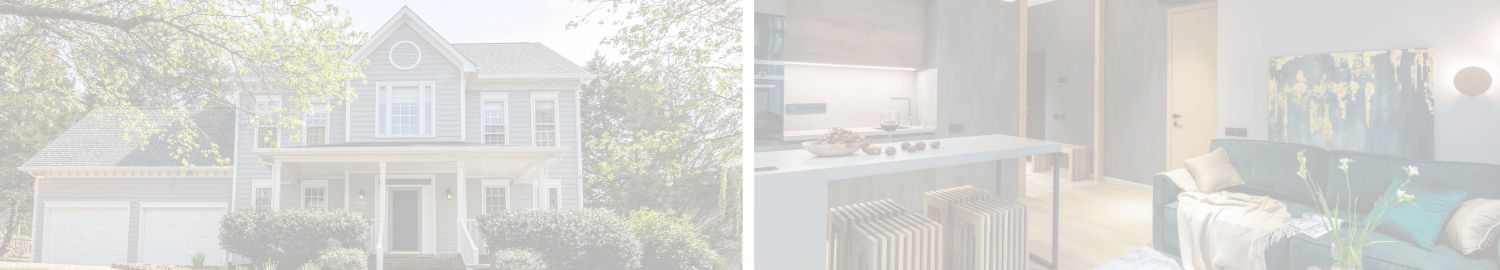
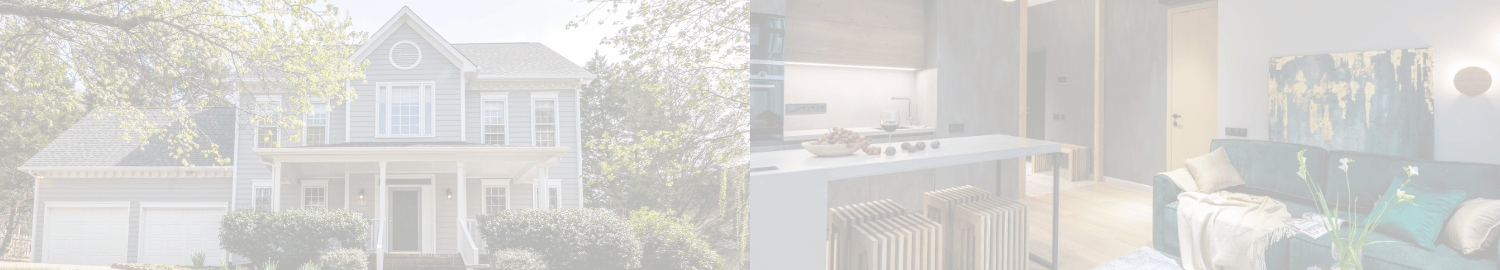
fixed issues with hero section styling, hero now fully responsive

Changed region(s): [[0.4907, 0.0, 0.5213, 0.563], [0.4907, 0.5926, 0.5213, 1.0]]

diff --git a/app/components/Header.jsx b/app/components/Header.jsx
@@ -7,9 +7,9 @@ import { Navbar } from "./Navbar"
 
 const Header = () => {
   return (
-    <header className="min-h-[360px] flex flex-col relative">
+    <header className="flex flex-col relative">
         {/* TOP HEADER */}
-        <div className="min-h-12 py-2 px-3 md:px-5 bg-oresta-primary text-oresta-gray flex justify-between">
+        <div className="h-[44px] py-2 px-3 md:px-5 bg-oresta-primary text-oresta-gray flex justify-between items-center">
             <div className="flex gap-2 md:gap-4">
                 <a href="https://www.facebook.com/orestakisilandco/" target="_blank">
                     <img src="/images/facebook.png" alt="facebook logo" className="w-7" />
@@ -33,18 +33,20 @@ const Header = () => {
         </div>
         <Navbar />
         {/* HERO */}
-        <div className="flex justify-between px-0 md:px-5 h-full bg-[url('/images/oresta_hero_bg_light_2.png')] bg-center bg-cover overflow-hidden">
-            <img src="/images/oresta_banner_image.png"  alt="photo of Oresta Kisil" style={{width: "190px"}} />
-            <div className="hidden lg:flex lg:flex-col lg:mx-3 lg:px-3 lg:py-6 lg:rounded font-light text-oresta-primary/70 self-center">
+        <div className="h-[320px] flex justify-evenly px-0 md:px-5 bg-[url('/images/oresta_hero_bg_light.png')] bg-center bg-cover overflow-hidden">
+            <div className="flex flex-shrink-0 justify-center">
+                <img src="/images/oresta_banner_image.png"  alt="photo of Oresta Kisil" />
+            </div>
+            <div className="hidden lg:flex lg:flex-col px-8 xl:ps-14 font-light text-oresta-primary/70 self-center">
                 <h1 className="text-3xl xl:text-4xl font-semibold pb-4 mb-1">Oresta Kisil | Your west-end Toronto and GTA Realtor</h1>
                 <ul className="list-inside list-disc space-y-3 font-normal text-xl xl:text-2xl">
                     <li>Bringing ease and confidence to your real estate journey</li>
                     <li>Supporting sellers, buyers, leasees + investors since 2016</li>
                 </ul>
             </div>
-            <div className="flex flex-col items-end justify-evenly sm:min-w-[300px]">
+            <div className="flex lg:flex-shrink-0 flex-col items-center justify-evenly">
                 <Link href="/" className="block h-fit"><img src="/images/logo_white_transparent.png" alt="Oresta Kisil Real Estate logo" className="flex-shrink-0 bg-black/30 rounded-2xl h-[90px] sm:h-[150px]" /></Link>
-                <h1 className="sm:hidden px-4 text-center text-2xl">Find your Dream Home in Toronto & the GTA</h1>
+                <h1 className="lg:hidden px-4 text-center text-2xl">Find your Dream Home in Toronto & the GTA</h1>
             </div>
         </div>
     </header>
